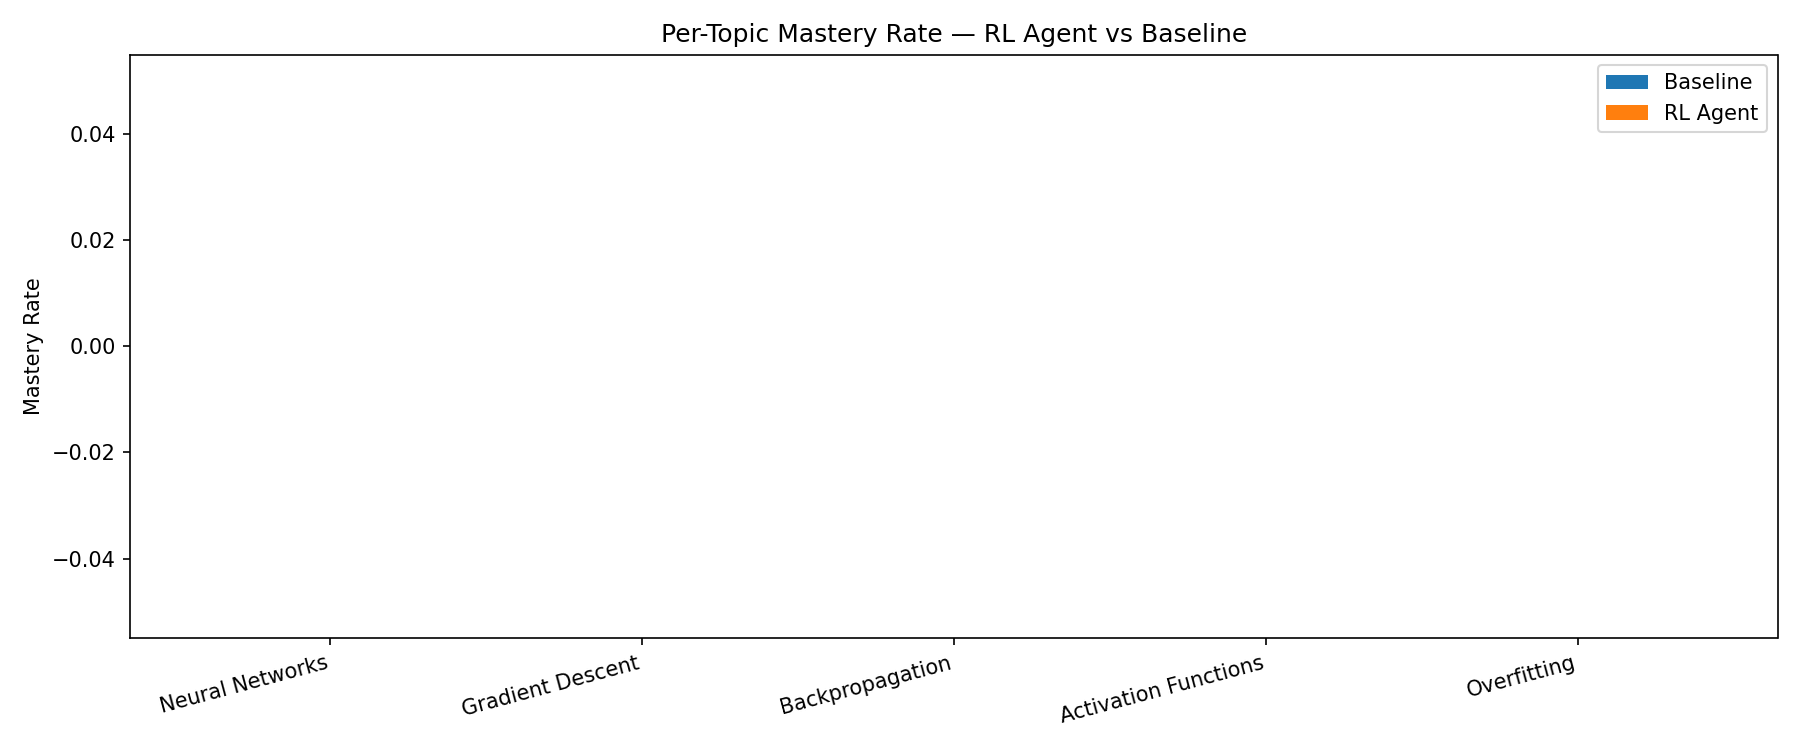
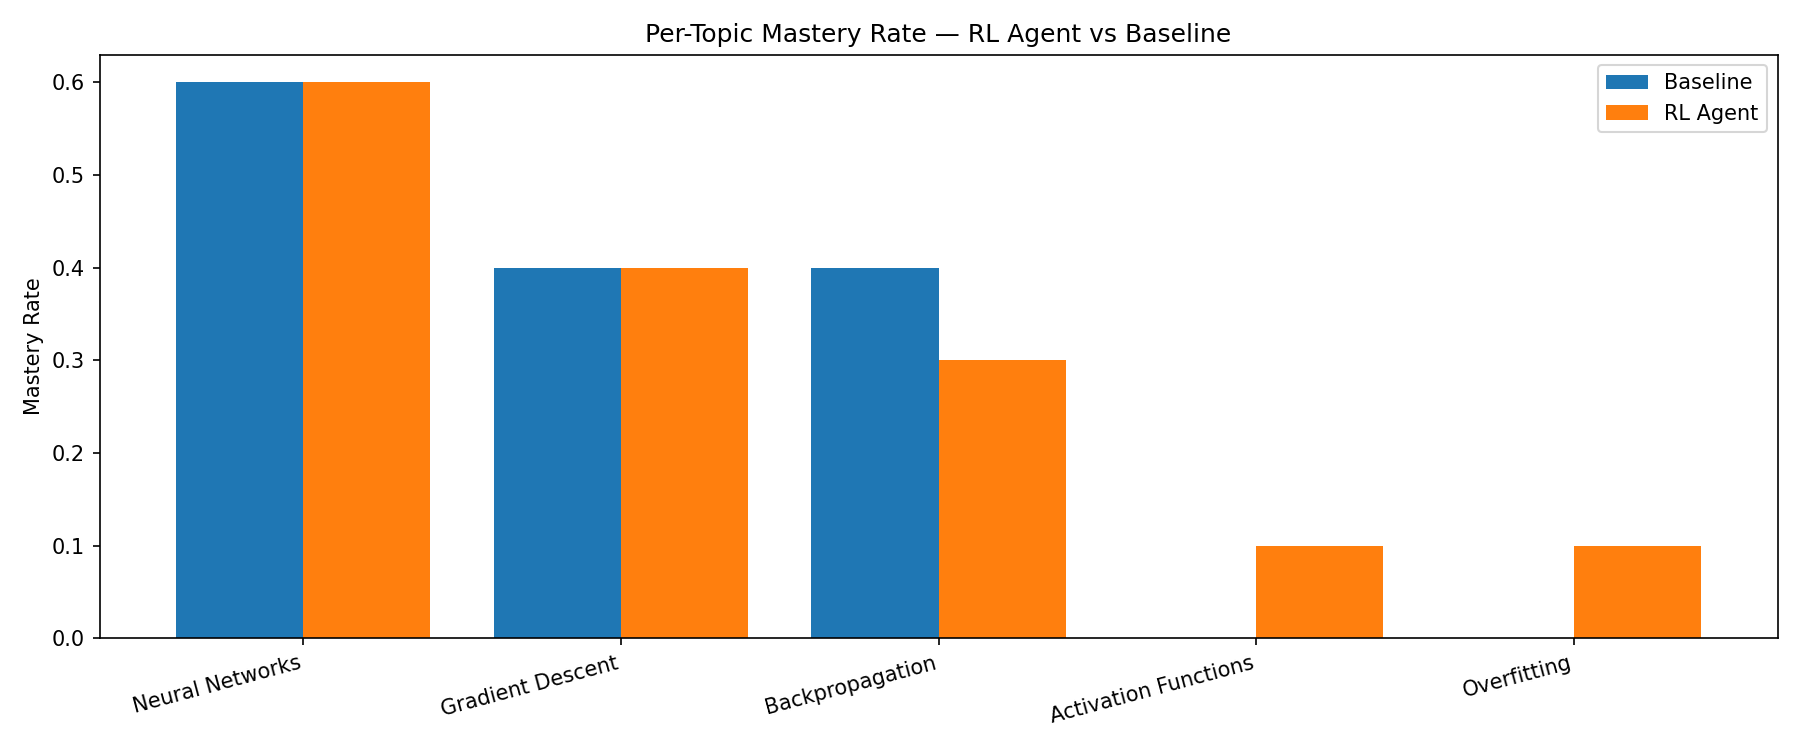
Somewhat working code

diff --git a/Agent.py b/Agent.py
@@ -9,13 +9,13 @@ import matplotlib.pyplot as plt
 
 class AdaptiveAgent:
 
-    def __init__(self, topics_difficulty, w1, w2, w3, n_episodes=500, n_questions=25):
-        self.mdp = MDP(list(topics_difficulty), difficulty_types = ['basic', 'intermediate', 'advanced'], q_types = ['factual', 'inferential', 'evaluative'], w1 = w1, w2 = w2, w3 = w3)
+    def __init__(self, topics_difficulty, w1, w2, w3, n_episodes=3000, n_questions=100):
+        self.mdp = MDP(list(topics_difficulty.keys()), difficulty_types = ['basic', 'intermediate', 'advanced'], q_types = ['factual', 'inferential', 'evaluative'], w1 = w1, w2 = w2, w3 = w3)
         self.policy_network  = PolicyNetwork(num_topics = len(topics_difficulty), num_actions = len(topics_difficulty) * 3 * 3)
         self.simulator = Simulator(topic_difficulty = topics_difficulty)
         self.ks = KnowledgeState(topics_difficulty = topics_difficulty, window_size = 10)
         self.optimizer = torch.optim.AdamW( self.policy_network.parameters(), lr = 1e-4)
-        self.pretrain()
+        self.pretrain(n_episodes =n_episodes, n_questions = n_questions)
 
     def select_action(self, state_vector, training = False):
         state  = torch.FloatTensor(state_vector)
@@ -25,7 +25,7 @@ class AdaptiveAgent:
             dist   = torch.distributions.Categorical(probs)
             action = dist.sample()
         else:
-            temperature = 0.5  # < 1 = more focused, > 1 = more random
+            temperature = 0.7  # < 1 = more focused, > 1 = more random
             probs  = F.softmax(logits / temperature, dim=-1)
             dist   = torch.distributions.Categorical(probs)
             action = dist.sample()

diff --git a/evaluate.py b/evaluate.py
@@ -134,7 +134,7 @@ def print_per_topic_report(topics, topics_difficulty,
 # Main evaluation
 # ---------------------------------------------------------------------------
 
-def evaluate(topics_difficulty, w1=0.4, w2=0.5, w3=0.1, n_students=1, n_questions=500):
+def evaluate(topics_difficulty, w1=0.4, w2=0.5, w3=0.1, n_students=10, n_questions=500):
     """
     Compare RL agent vs rule-based baseline on n_students simulated students.
     Both agents face identical simulated students for fair comparison.
@@ -230,7 +230,7 @@ def evaluate(topics_difficulty, w1=0.4, w2=0.5, w3=0.1, n_students=1, n_question
     plt.legend()
     plt.grid(True)
     plt.tight_layout()
-    plt.savefig('Images/evaluation_plot_1.png', dpi=150)
+    plt.savefig('Images/evaluation_plot_3.png', dpi=150)
     plt.show()
 
     # 2. Per-topic mastery rate bar chart
@@ -246,7 +246,7 @@ def evaluate(topics_difficulty, w1=0.4, w2=0.5, w3=0.1, n_students=1, n_question
     plt.title('Per-Topic Mastery Rate — RL Agent vs Baseline')
     plt.legend()
     plt.tight_layout()
-    plt.savefig('Images/mastery_plot_1.png', dpi=150)
+    plt.savefig('Images/mastery_plot_3.png', dpi=150)
     plt.show()
 
 
@@ -263,7 +263,7 @@ if __name__ == "__main__":
 
     evaluate(
         topics_difficulty,
-        w1=0.6, w2=0.3, w3=0.1,
-        n_students=1,
+        w1=0.4, w2=0.5, w3=0.1,
+        n_students=10,
         n_questions=100
     )

diff --git a/Simulator.py b/Simulator.py
@@ -13,7 +13,7 @@ class Simulator:
         self.mastery_topic = {topic: np.random.uniform(0.3, 1) for topic in topic_difficulty.keys()}
 
     def reset_mastery_scores(self):
-        self.mastery_topic = { topic: np.random.uniform(0, 1) for topic in self.topic_difficulty.keys()}
+        self.mastery_topic = { topic: np.random.uniform(0.3, 1) for topic in self.topic_difficulty.keys()}
 
     def get_score(self, topic, difficulty, question_type):
         """
@@ -25,4 +25,5 @@ class Simulator:
         qtype_pen  = self.question_type_penalty[question_type]
         noise      = np.random.normal(0, 0.05)
         score      = base - diff_pen - qtype_pen + noise
+        self.mastery_topic[topic] = min(self.mastery_topic[topic] + 0.01, 1.0)
         return float(np.clip(score, 0, 1))

diff --git a/MDP.py b/MDP.py
@@ -33,10 +33,11 @@ class MDP:
             coverage_bonus = 0.7
         elif ks.trend(topic) < 0:
             coverage_bonus = 0.4
-        else:
-            coverage_bonus = 0.0
         if ks.attempts[topic] > 5 and ks.topic_score[topic] < 0.2:
             coverage_bonus = -0.5
+        else:
+            coverage_bonus = 0.0
+        
         
         mastery_penalty = 1.0 if ks.is_mastered(topic) else 0.0
         return self.w1 * improvement + self.w2 * coverage_bonus - self.w3 * mastery_penalty

diff --git a/policy_network.py b/policy_network.py
@@ -3,7 +3,7 @@ import torch.nn as nn
 import torch.nn.functional as F
 
 class PolicyNetwork(nn.Module):
-    def __init__(self, num_topics, num_actions, hidden_size1=64, hidden_size2=32, dropout=0.2):
+    def __init__(self, num_topics, num_actions, hidden_size1=128, hidden_size2=64, dropout=0.2):
         super(PolicyNetwork, self).__init__()
         self.input_size  = num_topics * 7 
         self.fc1         = nn.Linear(self.input_size, hidden_size1)

diff --git a/knowledge_state.py b/knowledge_state.py
@@ -32,7 +32,7 @@ class KnowledgeState:
             return 0.0
         x = np.arange(len(recent), dtype=np.float32)
         slope = float(np.polyfit(x, recent, 1)[0])
-        return slope
+        return float(np.clip(slope, -1.0, 1.0))
 
     def is_mastered(self, topic,min_attempts= 3):
         topic_difficulty = self.topics_difficulty[topic]

diff --git a/Results.md b/Results.md
@@ -1,5 +1,5 @@
-<b> <h2> Results for REINFORCE with regularization : 
-<h3> Policy network
+<h2> <b>  Results for REINFORCE with regularization :  </h2>
+<h3> Policy network</h3>
 ```python 
 self.input_size  = num_topics * 7 
 self.fc1         = nn.Linear(self.input_size, hidden_size1)
@@ -7,7 +7,12 @@ self.fc2         = nn.Linear(hidden_size1, hidden_size2)
 self.fc3         = nn.Linear(hidden_size2, num_actions)
 self.dropout     = nn.Dropout(dropout)
 ```
-<b> <h3> Reward_weights
+<h3> <b> Reward_weights </h3>
 weight_improvement = 0.4, weight_coverage_penalty = 0.5, weight_mastery_penalty = 0.1
 
-<b> <h3>Results:
+## Results:
+## Attempt 1:
+![Mastery_plot_attempt 1 ](Adaptive-Questioning-Agent/Images/evaluation_plot_1.png)
+
+## Attempt 2:
+![Mastery_plot_attempt 2 ](Adaptive-Questioning-Agent/Images/evaluation_plot_2.png)
